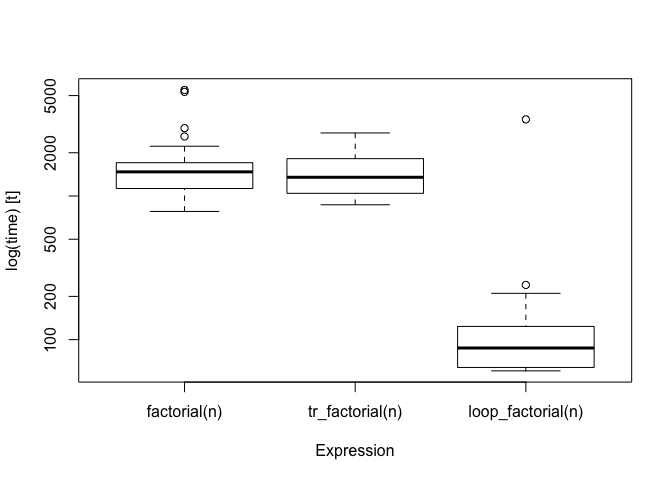
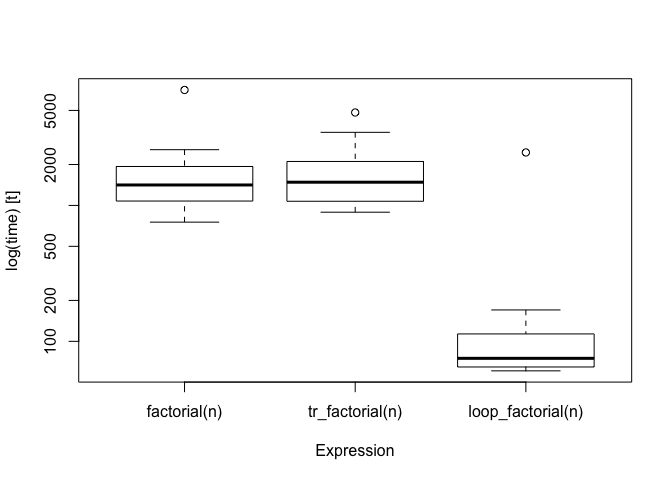
Updated README

diff --git a/README.md b/README.md
@@ -8,8 +8,8 @@
 [![Project Status: Active – The project has reached a stable, usable
 state and is being actively
 developed.](http://www.repostatus.org/badges/latest/active.svg)](http://www.repostatus.org/#active)
-[![Last-changedate](https://img.shields.io/badge/last%20change-2018--12--20-green.svg)](/commits/master)
-[![packageversion](https://img.shields.io/badge/Package%20version-0.1.2.9000-green.svg?style=flat-square)](commits/master)
+[![Last-changedate](https://img.shields.io/badge/last%20change-2018--12--21-green.svg)](/commits/master)
+[![packageversion](https://img.shields.io/badge/Package%20version-0.1.3.9000-green.svg?style=flat-square)](commits/master)
 [![Travis build
 status](https://travis-ci.org/mailund/tailr.svg?branch=master)](https://travis-ci.org/mailund/tailr)
 [![Appveyor build
@@ -139,10 +139,10 @@ bm <- microbenchmark::microbenchmark(factorial(n),
                                      loop_factorial(n))
 bm
 #> Unit: microseconds
-#>               expr     min       lq      mean   median       uq      max
-#>       factorial(n) 699.833 790.4000 994.13872 856.2115 1076.836 5492.965
-#>    tr_factorial(n) 780.342 803.4845 939.39344 838.3140 1047.651 2804.756
-#>  loop_factorial(n)  57.173  59.7730  85.75384  60.6195   61.887 2359.777
+#>               expr     min        lq      mean   median       uq      max
+#>       factorial(n) 753.327 1076.8550 1530.8461 1413.862 1933.627 7071.590
+#>    tr_factorial(n) 891.502 1072.9835 1593.5777 1481.825 2105.525 4827.251
+#>  loop_factorial(n)  60.654   64.7555  111.3827   74.984  113.365 2453.018
 #>  neval
 #>    100
 #>    100
@@ -244,14 +244,14 @@ bm <- microbenchmark::microbenchmark(llength(test_llist),
                                      loop_llength(test_llist))
 bm
 #> Unit: microseconds
-#>                      expr     min      lq     mean   median       uq
-#>       llength(test_llist) 311.461 314.529 410.0324 318.8050 327.9455
-#>    tr_llength(test_llist) 422.970 426.982 481.7691 430.3400 458.4060
-#>  loop_llength(test_llist) 169.677 171.921 235.7967 173.4075 177.2230
-#>       max neval
-#>  5551.296   100
-#>  3257.986   100
-#>  5502.246   100
+#>                      expr     min       lq     mean   median        uq
+#>       llength(test_llist) 427.303 498.6945 792.0072 583.1925  775.2950
+#>    tr_llength(test_llist) 582.458 667.3435 924.0303 787.9700 1010.1635
+#>  loop_llength(test_llist) 239.194 267.5165 398.4339 297.4250  350.5305
+#>        max neval
+#>  11909.065   100
+#>   3202.308   100
+#>   7234.805   100
 boxplot(bm)
 ```
 
@@ -284,14 +284,14 @@ bm <- microbenchmark::microbenchmark(llcontains(lst, 1001),
                                      loop_contains(lst, 1001))
 bm
 #> Unit: microseconds
-#>                      expr     min       lq     mean   median       uq
-#>     llcontains(lst, 1001) 308.417 320.6750 461.6773 335.1845 376.4935
-#>  tr_llcontains(lst, 1001) 432.907 448.2985 509.1565 469.4505 504.8375
-#>  loop_contains(lst, 1001) 235.567 241.9755 306.6966 258.8265 286.5830
+#>                      expr     min       lq     mean  median       uq
+#>     llcontains(lst, 1001) 416.362 463.1385 595.6020 491.507 528.2700
+#>  tr_llcontains(lst, 1001) 602.532 664.2220 763.1534 692.794 746.6635
+#>  loop_contains(lst, 1001) 337.272 357.2140 463.2347 381.119 413.5190
 #>       max neval
-#>  5073.269   100
-#>  2596.863   100
-#>  2548.667   100
+#>  8220.268   100
+#>  3590.782   100
+#>  4011.447   100
 boxplot(bm)
 ```
 
@@ -405,14 +405,14 @@ bm <- microbenchmark::microbenchmark(bubble_sort(lst),
                                      loop_bubble(lst))
 bm
 #> Unit: microseconds
-#>                 expr      min       lq     mean    median       uq
-#>     bubble_sort(lst) 3625.430 3739.114 4294.959 3881.5525 4361.909
-#>  tr_bubble_sort(lst) 4056.978 4158.021 4550.006 4302.0615 4627.124
-#>     loop_bubble(lst)  118.545  127.785  135.504  130.1145  137.271
+#>                 expr      min       lq     mean    median        uq
+#>     bubble_sort(lst) 4041.428 4362.236 5023.292 4688.6965 5461.7020
+#>  tr_bubble_sort(lst) 4545.728 4799.363 5563.993 5084.3145 5753.0465
+#>     loop_bubble(lst)  132.440  150.315  179.494  160.7555  173.8895
 #>        max neval
-#>  11338.354   100
-#>   7247.965   100
-#>    259.622   100
+#>   8529.733   100
+#>  11671.375   100
+#>    536.358   100
 boxplot(bm)
 ```
 
